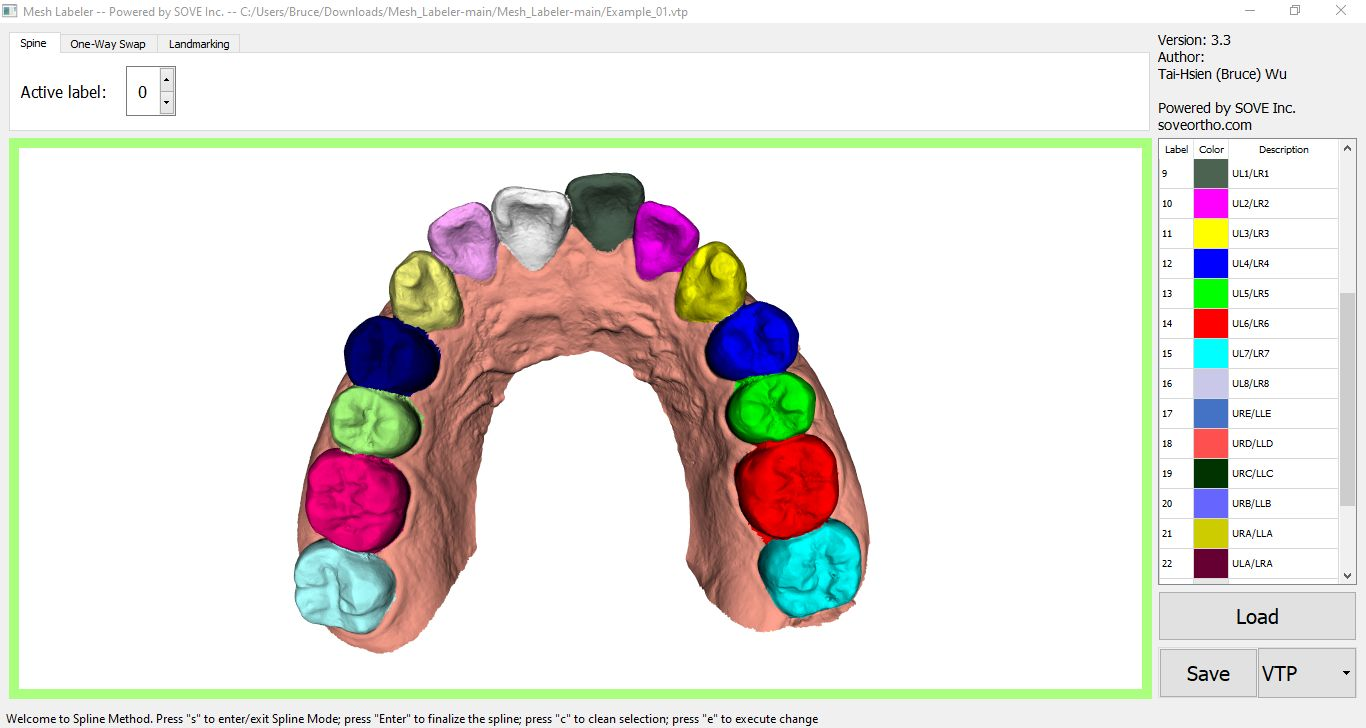
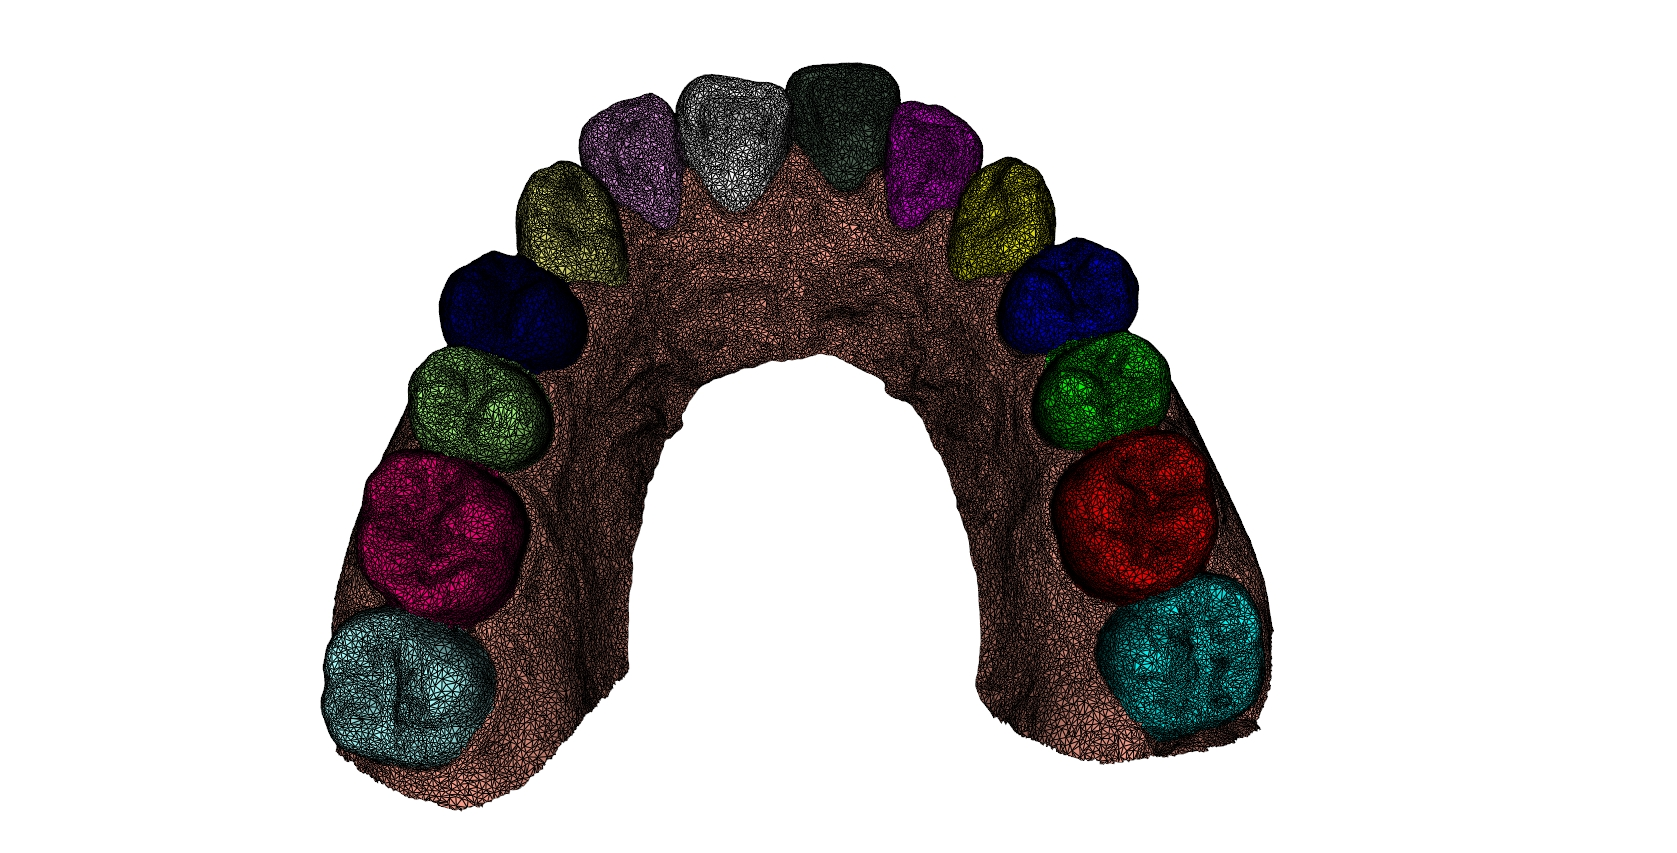
Add files via upload
Update to v4.0

diff --git a/README.md b/README.md
@@ -1,4 +1,4 @@
-Mesh Labeler3 – User Manual
+Mesh Labeler4 – User Manual
 ==========================
 
 [![lics](https://img.shields.io/badge/license-MIT-blue.svg)](https://en.wikipedia.org/wiki/MIT_License)
@@ -10,16 +10,18 @@ This project is powered by [SOVE Inc.](https://soveortho.com) and is mainly deve
 This program is originally developed to conveniently label/annotate dental mesh model. It can also work on any other type of mesh model.
 
 ------------
-Current version: 3.4
+Current version: 4.0
 
-* fixed the bug that always used the first celldata as active array
-* displayed the wireframe of mesh when rendering
+* removed the spline model
+* added brush mode
+* added a hotkey (L or l) to show/hide wireframe (default: show wireframe)
+* added "un-do" process (ctrl+z) in brush mode
 
 ------------
 
-1.  Download installer from <https://www.dropbox.com/s/n9d4c9x5p7szopn/Mesh_Labeler3p4_Setup.exe?dl=0> (click "Download").
+1.  Download installer from <https://www.dropbox.com/scl/fi/h0woxq1m3vyj54jbqhu1i/Mesh_Labeler4p0_Setup.exe?rlkey=8yzxdie6adtmqk135mggbgc1f&dl=0> (click "Download" on the top left).
 
-2.  Execute **Mesh_Labeler3p4_Setup.exe** to install the program. You can find the shortcut of **Mesh Labeler** in Windows Start menu.
+2.  Execute **Mesh_Labeler4p0_Setup.exe** to install the program. You can find the shortcut of **Mesh Labeler** in Windows Start menu (if it is installed for all user, you might need to search "Mesh Labeler" in the search bar).
 	
 3. 	Once the program is launched, you will see the user interface, as shown below.
 
@@ -46,11 +48,10 @@ Current version: 3.4
 
 7.  There are two methods to annotate a mesh. Users can go for each method by selecting the corresponding tab. Different methods have different input(s) under their tabs.
 
-    **(1) Spline Method: Change label by selecting cells (triangles)**
-The simplest way to select cells is to right-click on a cell. The selected cells are highlighted by grey color. Right-click on a selected cell can cancel its selection.
-An advanced way to select cells is to press "s" to enter "Spline model" (you can look at the status bar to check whether the Spline model is on or off). In Spline model, you can add points by left click on the mesh. Once the number of selected points > 2, you can decide to use these points to generate a spline by pressing "Enter". All cells within this spline will be highlighted. Press "c" if you would like to clean the current selection. Before you execute the change, please make sure the *active label* is what you plan to apply. The default *active label* is 0. You can change it through the spinBox under the Spline tab.
-Once you satisfy the selection, press "e" to execute the change which will assign the value of *active label* on those selected cells. Please follow the colormap to assign/fix the label of each cell for the mesh.
-**Note that there are certain probabilities that Spline Method doesn't work well (e.g., the uncontinuous selected area), particularly for an aggregative selection . Based on my understanding, it's a potential problem in VTK and hard to fix by myself. However, this method is still useful for selecting a large area, followed by manaully fixed with the right-click selection.**
+    **(1) Brush Method: Change label by selecting cells (triangles)**
+The most straightforward way to select cells is by using a brush tool. Press "b" to activate "Brush Mode" (you can check the status bar to confirm if Brush Mode is on or off).
+Once you're in Brush Mode, you'll see small red points that indicate potential selections as you move your mouse over the model. To select cells, simply right-click and drag the brush tool across the model. The selected cells will be highlighted in gray.
+To remove a part of the selection, hold down the "ctrl" key while right-clicking and dragging. To adjust the brush size, hold down "ctrl" and scroll the mouse wheel up or down. Additionally, you can undo actions by pressing "ctrl+z".
 
     **(2) One-Way Swap Method: Change all cells with a specific label one-shot**
 In this way, we can entirely change cells from one label to another label.
@@ -59,7 +60,7 @@ There are two spinBoxs (i.e., *Original label* and *New label*) under the One-Wa
 8.  Once everything is done, you can save the result by using the **Save** button. The default extension file is **VTP**, which will save the result in the VTP format with the cell array **Label**.
 	If the extension file is **STL** or **OBJ**, Mesh Labeler will save each label to an individual **STL** or **OBJ** file. For example, a 15-class mesh model will output 15 STL files.
 	
-9. Version 3 adds a new function for identifying landmarks on mesh data. To do that, please select "landmarking" tab on the top of the program.
+9. Version 3 added a new function for identifying landmarks on mesh data. To do that, please select "landmarking" tab on the top of the program.
 
 -   **Landmarking Method: Annotate landmarks on the loaded mesh**
 Note that a mesh must be loaded before doing any actions in landmarking mode.
@@ -81,11 +82,14 @@ Hotkey Table
 | Keypress f               | fly to the picked point                                                                                                                                                                                                                                                   |
 | Keypress p               | perform a pick operation. (Don't press)                                                                                                                                                                                                                                   |
 | Keypress w               | modify the representation of all actors so that they are wireframe.                                                                                                                                                                                                       |
-| **Mesh Labeler Spline Mode**          | **Function**                                                                                                                                                                                                                                                              |                                                                                                                         |
-| Keypress s               | toggle splien mode & modify the representation of all actors so that they are surfaces.                                                                                                                                                                                   |
+| **Mesh Labeler General hotkeys**          | **Function**        
+| Keypress l               | show/hide wireframe with face.                                                                                                                                                                                                       |
+| **Mesh Labeler Brush Mode**          | **Function**                                                                                                                                                                                                                                                              |                                                                                                                         |
+| Keypress b               | toggle splien mode & modify the representation of all actors so that they are surfaces.                                                                                                                                                                                   |
 | Keypress e               | execute the change in spline mode                                                                                                                                                                                                                                         |
 | Keypress Enter           | generate a spline based on the given points                                                                                                                                                                                                                               |
-| Keypress c               | clean the current selection including existing spline and points                                                                                                                                                                                                          |
+| Keypress c               | clean the current selection including existing spline and points
+| Keypress ctrl+z          | undo                                                                                                                                                                                                                   |
 
 
 Reference
